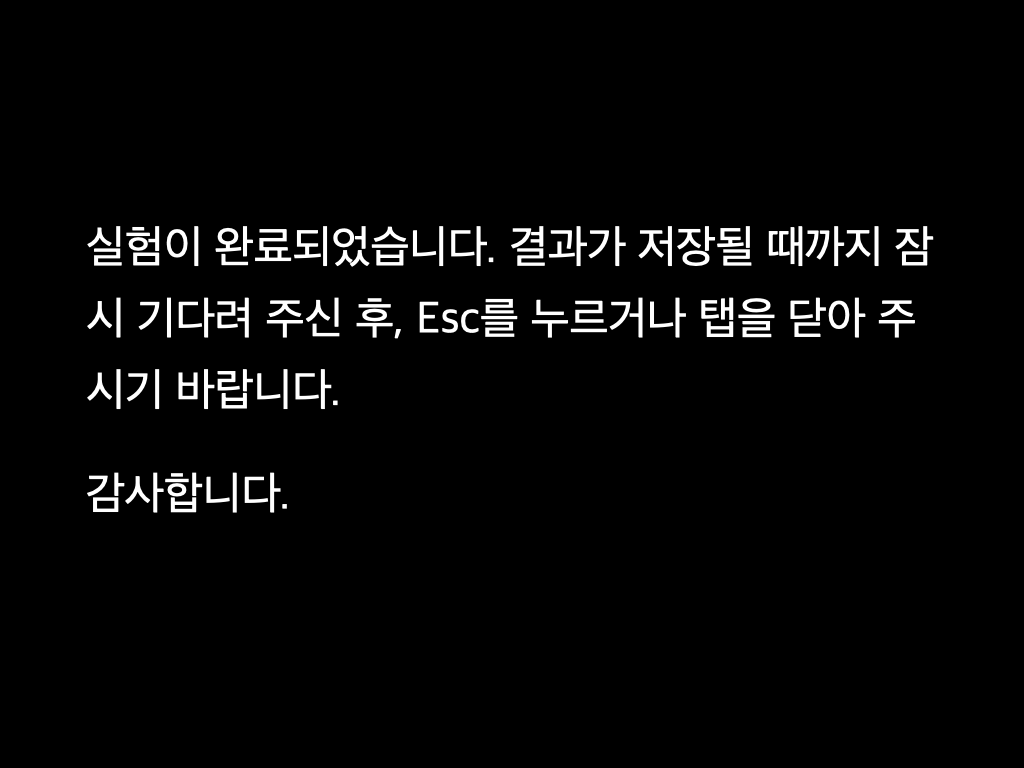
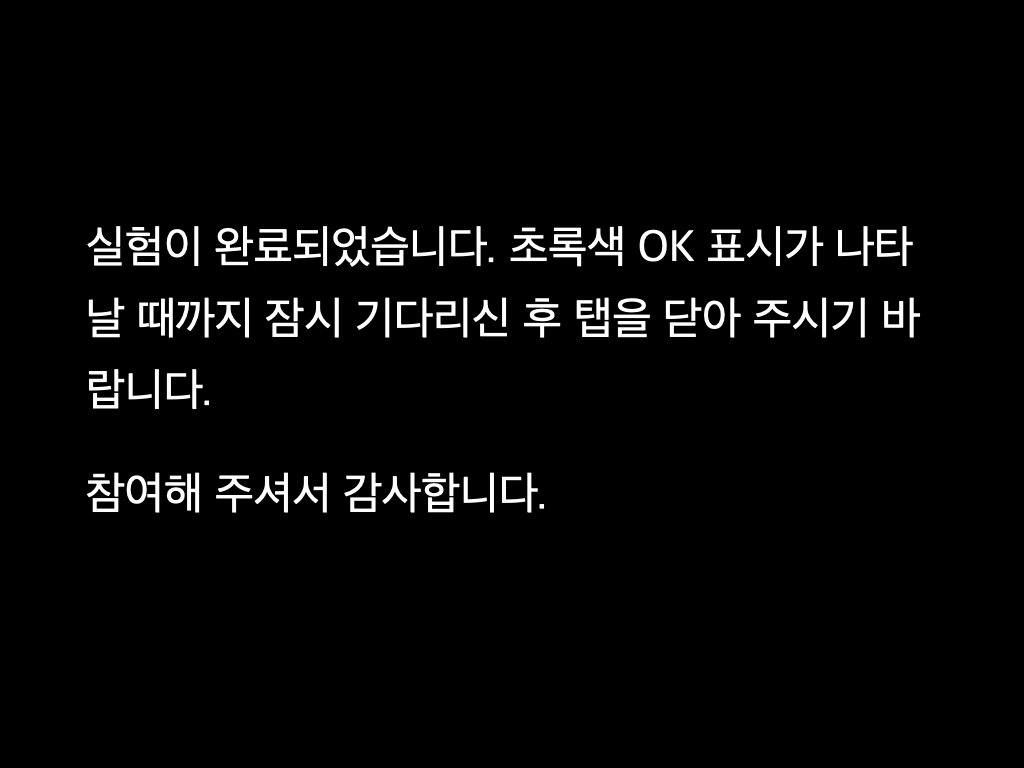
adjust

diff --git a/experiment.js b/experiment.js
@@ -493,7 +493,7 @@ async function experimentInit() {
   // ── shuffle + assign ──────────────────────────────────────────────────────
   trialRows = constrainedShuffle(
     productRows, r => `${r.genre}|${r.classification}|${r.price_range}`, CFG.max_run
-  ).slice(0, 3);
+  );
   const nTrials  = trialRows.length;
   const infoTypes = Object.keys(INFO_CODE_MAP);
   infoAssignment = assignInfoTypesBalanced(trialRows, infoTypes, CFG.max_run);
@@ -627,7 +627,7 @@ function finalRoutineEachFrame() {
       return quitPsychoJS('Escape pressed', false);
 
     // Auto-advance after FINAL_DUR seconds — no keypress needed
-    if (t >= 2.0) return Scheduler.Event.NEXT;
+    if (t >= 3.0) return Scheduler.Event.NEXT;
 
     return Scheduler.Event.FLIP_REPEAT;
   };